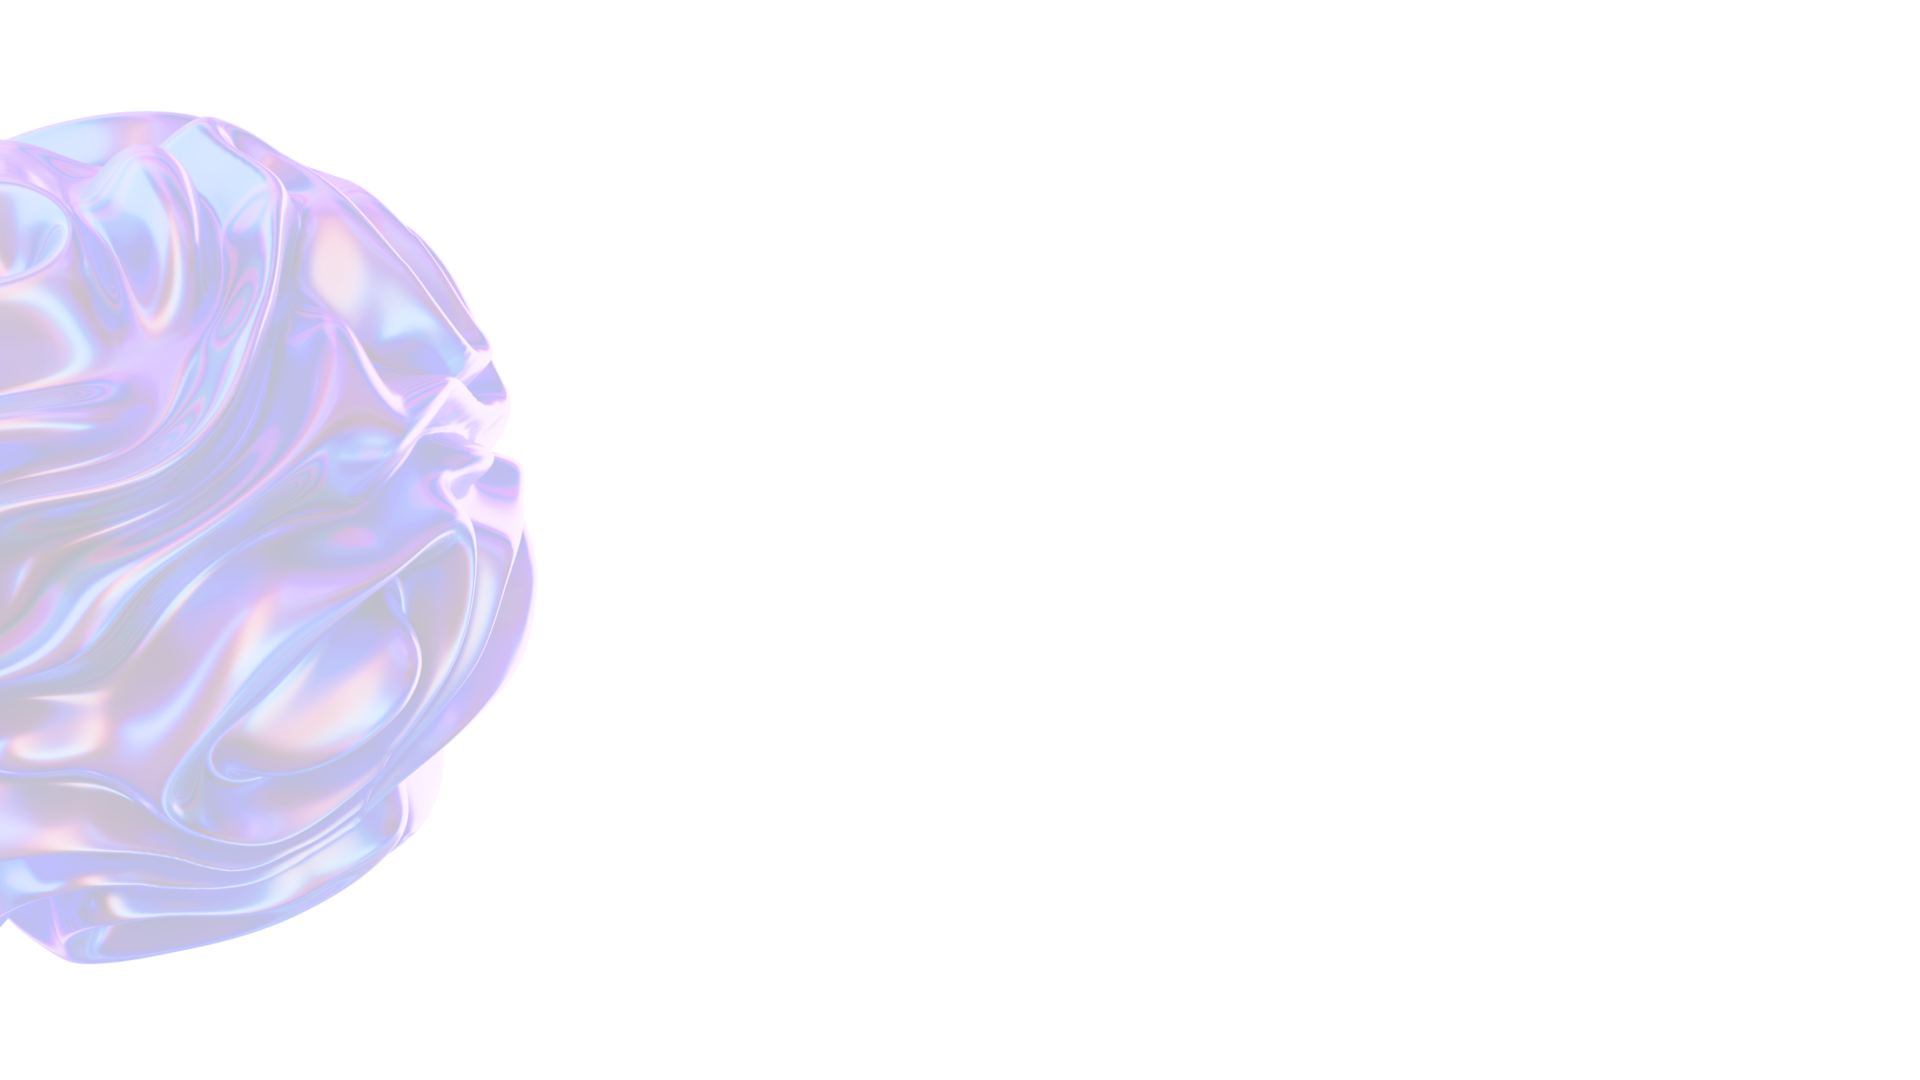
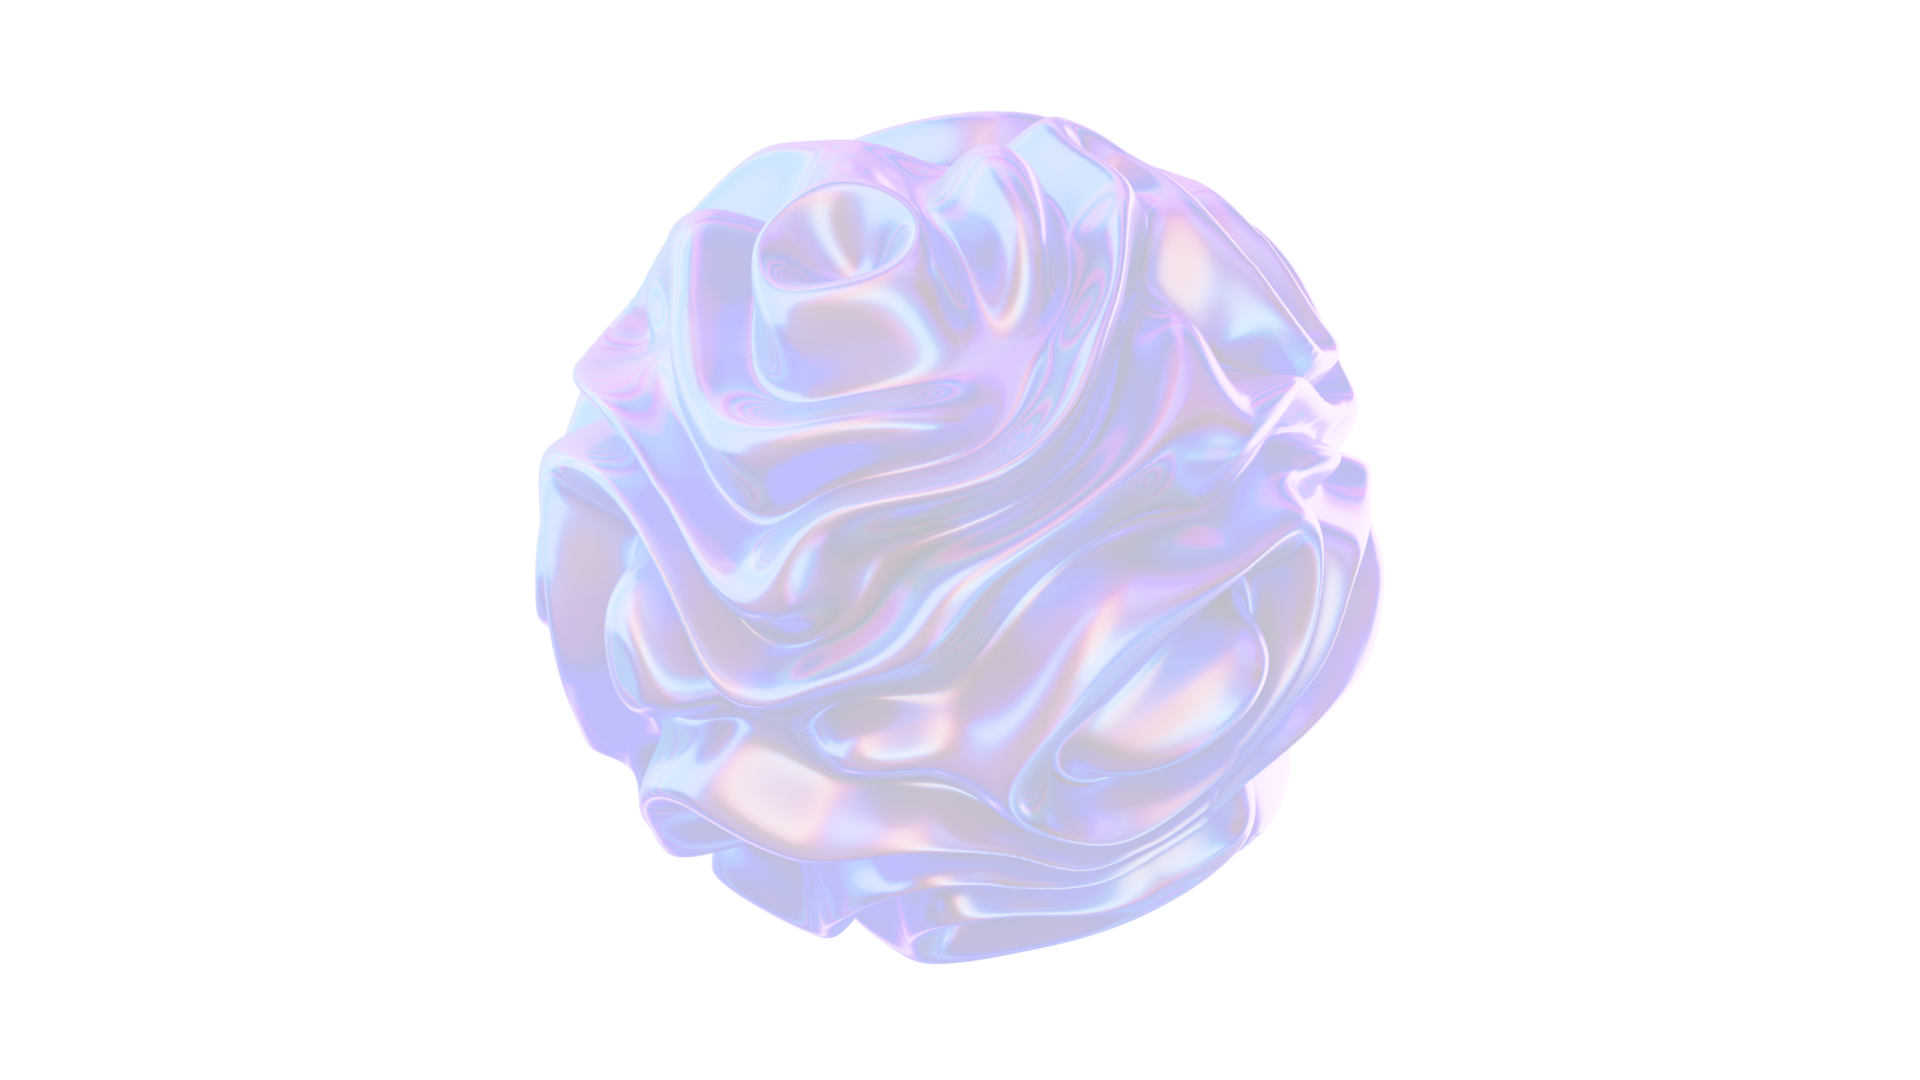
update

diff --git a/shared/css/documentation.module.css b/shared/css/documentation.module.css
@@ -8,6 +8,6 @@
 
 @media (width <= 768px) {
   .documentation {
-    background-position: left center !important;
+    background-position: center !important;
   }
 }
